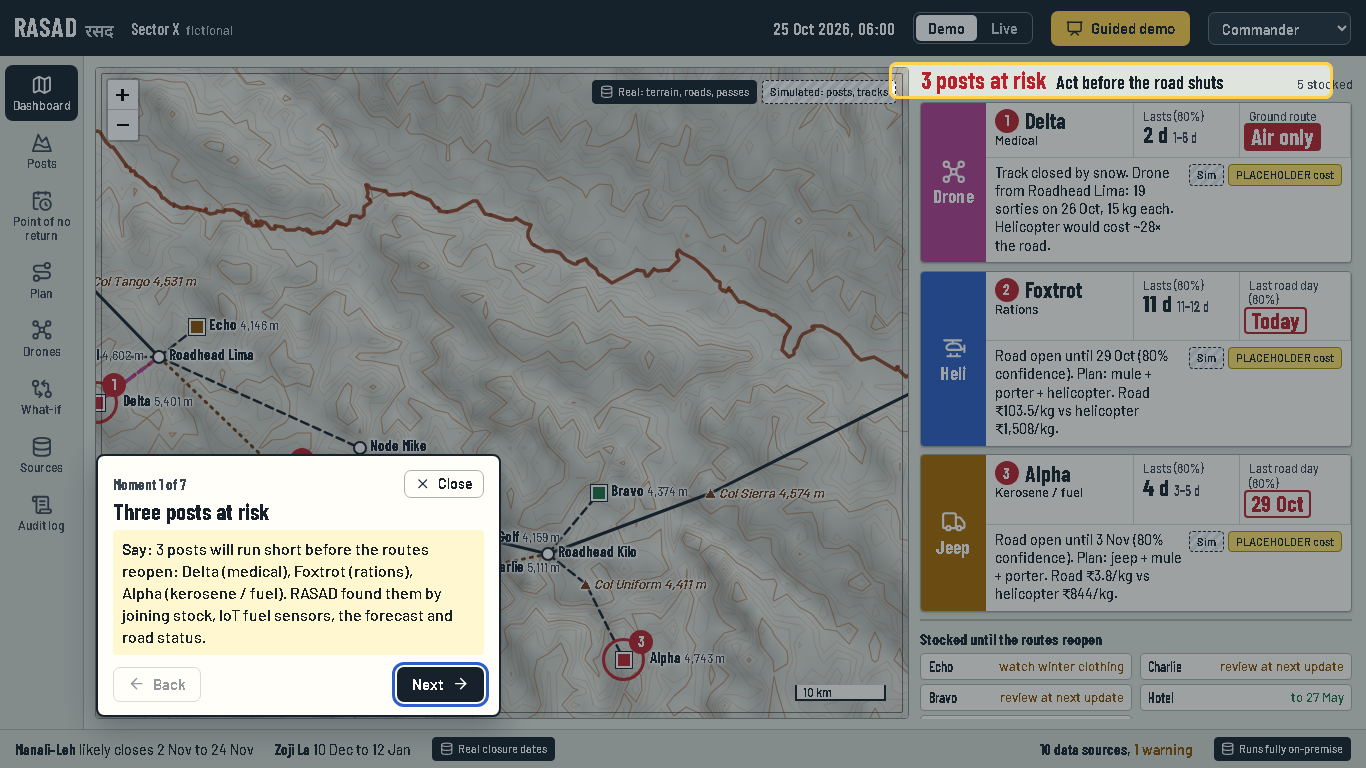
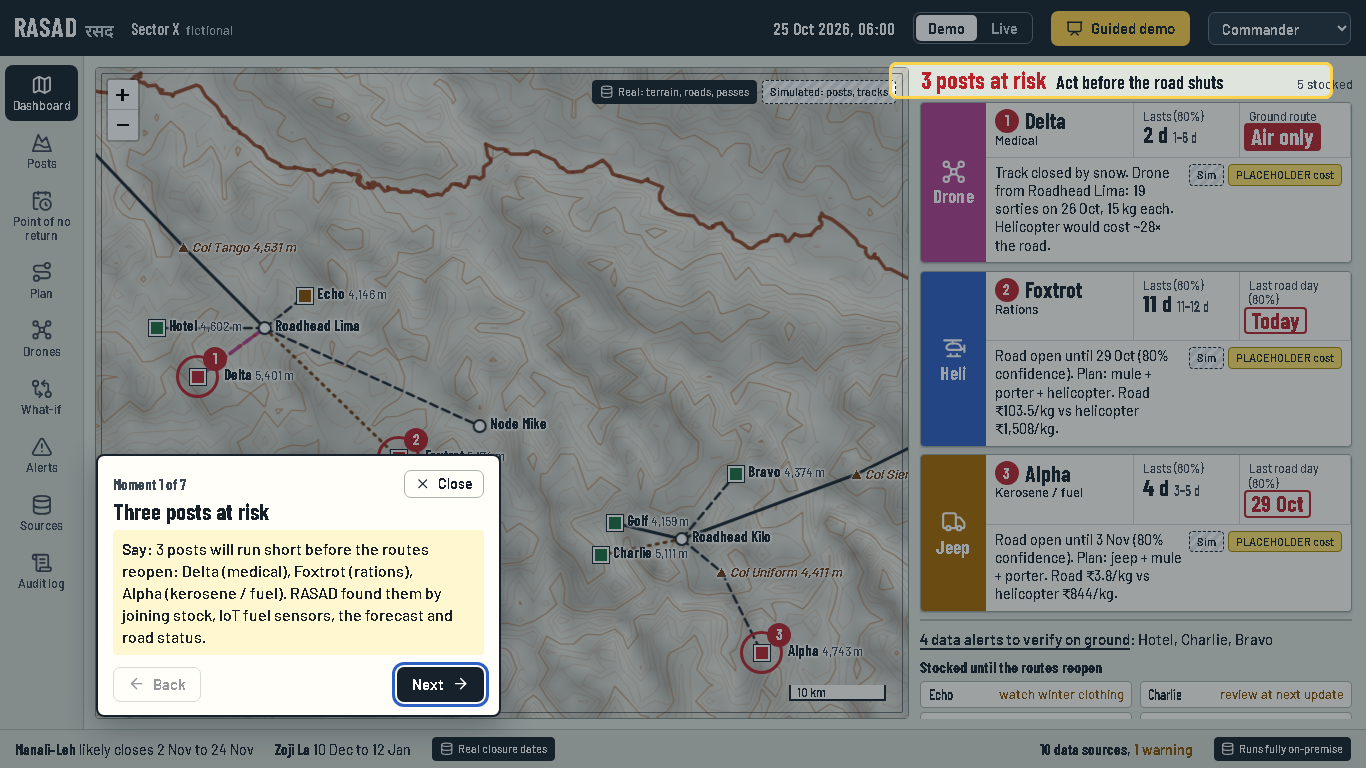
Fix cold-start pile-up and keep every post on the map
- backend/cache.py: memo() computes each heavy result once; callers asking
  meanwhile wait instead of starting a copy (6 reloads on a fresh start:
  >120 s before, ~13 s now). Warm-up computes the closure result first.
  Selfcheck covers it.
- SectorMap: fit all posts (padding for labels and controls), refit on
  resize, no animation, never pan past the terrain edge. Delta was hidden
  at 1280x720. Screenshots 01, 10, 11 recaptured.

diff --git a/frontend/src/SectorMap.tsx b/frontend/src/SectorMap.tsx
@@ -62,23 +62,26 @@ export default function SectorMap({ sector, terrain, status, risk, droneLegs = [
   const map = useRef<L.Map | null>(null)
   const layer = useRef<L.LayerGroup | null>(null)
   const g = useMemo(() => grid(terrain), [terrain])
+  const posts = useMemo(() => L.latLngBounds(sector.nodes.filter((n: Row) => n.kind === 'post').map((n: Row) => [n.lat, n.lon] as [number, number])), [sector])
 
   useEffect(() => {
     if (!el.current) return
     const m = L.map(el.current, { zoomControl: false, attributionControl: false, zoomSnap: 0.1, zoomDelta: 0.5, minZoom: 8, maxZoom: 13 })
     const bounds = L.latLngBounds([[g.lat0, g.lon0], [g.lat1, g.lon1]])
-    m.setView(bounds.getCenter(), m.getBoundsZoom(bounds, true) + 0.15) // terrain fills the frame at any size
-    m.setMaxBounds(bounds.pad(0.02))
+    // every post stays in view at any screen size (projector-safe), with room for labels, zoom buttons and chips
+    const fit = () => m.fitBounds(posts, { paddingTopLeft: [56, 64], paddingBottomRight: [140, 56], animate: false })
+    fit()
+    m.setMaxBounds(bounds) // stay on the terrain: past its edge only the contours' boundary lines would show
     relief(g).addTo(m)
     contourLayer(g).addTo(m)
     L.control.scale({ imperial: false, position: 'bottomright', maxWidth: 160 }).addTo(m)
     L.control.zoom({ position: 'topleft' }).addTo(m)
     layer.current = L.layerGroup().addTo(m)
     map.current = m
-    const ro = new ResizeObserver(() => m.invalidateSize())
+    const ro = new ResizeObserver(() => { m.invalidateSize(); fit() })
     ro.observe(el.current)
     return () => { ro.disconnect(); m.remove(); map.current = null }
-  }, [g])
+  }, [g, posts])
 
   useEffect(() => {
     const lg = layer.current

diff --git a/backend/closure.py b/backend/closure.py
@@ -8,14 +8,13 @@ this winter is like 1995, 1996, ... 2025, when does each route close?". That giv
 distribution. The last safe dispatch is the date on which the route is still open with 80% probability,
 minus transit and loading time.
 """
-import functools
 import json
 import math
 
 import numpy as np
 import pandas as pd
 
-from backend import costs, db, forecast, world
+from backend import cache, costs, db, forecast, world
 
 CLOSURES = json.loads((db.ROOT / "data" / "closures.json").read_text(encoding="utf-8"))
 P, CP = db.PARAMS, db.PARAMS["closure"]
@@ -69,7 +68,7 @@ def _closing_day(x: np.ndarray, c: float, d: float, t: float, start: int = 0) ->
     return int(_first(((cum >= c) & (storm >= d)) | (t7 <= t), start))
 
 
-@functools.lru_cache(maxsize=4)
+@cache.memo(maxsize=4)
 def fit(pass_id: str) -> dict:
     """Best (C, D, T) on the real closure dates, plus a leave-one-winter-out error so we don't fool ourselves."""
     info = CLOSURES[pass_id]
@@ -186,7 +185,7 @@ def _air(post: dict, nodes: dict) -> dict:
     return {"pad": pad["name"], "payload_kg": round(payload), "sortie_hours": round(hours, 2), "inr_per_kg": per_kg}
 
 
-@functools.lru_cache(maxsize=8)
+@cache.memo(maxsize=8)
 def run(mode: str = "demo", shift: int = 0, strength: tuple = ()) -> dict:
     """shift: what-if closure shift in days (e.g. -10). strength: what-if ((post, factor), ...)."""
     now = world.clock(mode).normalize()

diff --git a/backend/forecast.py b/backend/forecast.py
@@ -6,13 +6,12 @@ troop strength gives the post's demand, so a troop change flows straight into th
 Honesty check: on the last 60 days the model never saw, against the naive "28-day average". For each class
 the better of the two is used, and its band is calibrated so it really holds ~80% of real days.
 """
-import functools
 
 import lightgbm as lgb
 import numpy as np
 import pandas as pd
 
-from backend import db, world
+from backend import cache, db, world
 
 QUANTILES = (0.1, 0.5, 0.9)
 WINDOW, NAIVE_DAYS = 60, 28  # hold-out and calibration windows; naive look-back (days)
@@ -88,7 +87,7 @@ def _calibrate(p: np.ndarray, y: np.ndarray) -> float:
     return 6.0
 
 
-@functools.lru_cache(maxsize=4)
+@cache.memo(maxsize=4)
 def evaluate(mode: str = "demo") -> tuple[pd.DataFrame, dict]:
     """Two windows, no leak:
     - SELECT window (the 60 days before the final 60): pick the method per class and set its band factor.
@@ -174,7 +173,7 @@ def cover(mode: str, fc: pd.DataFrame) -> pd.DataFrame:
     return out
 
 
-@functools.lru_cache(maxsize=4)
+@cache.memo(maxsize=4)
 def run(mode: str = "demo") -> dict:
     """Everything the screens need; cached until the data changes (then call clear())."""
     fc = forecast(mode)

diff --git a/backend/selfcheck.py b/backend/selfcheck.py
@@ -2,8 +2,10 @@
 import pandas as pd
 
 import json
+import time
+from concurrent.futures import ThreadPoolExecutor
 
-from backend import adapters, anomaly, closure, costs, db, drones, forecast, planner, scenarios, world
+from backend import adapters, anomaly, cache, closure, costs, db, drones, forecast, planner, scenarios, world
 
 
 def check_adapters():
@@ -136,6 +138,21 @@ def check_alerts():
         assert a["plain"].startswith("Possible ") and "verify on ground" in a["plain"], a["plain"]
 
 
+def check_cache():
+    """Callers asking for the same result at the same time share one calculation (no pile-up on reloads)."""
+    calls = []
+
+    @cache.memo(maxsize=2)
+    def slow(x):
+        calls.append(x)
+        time.sleep(0.2)
+        return x * 2
+
+    with ThreadPoolExecutor(4) as ex:
+        assert list(ex.map(slow, [1, 1, 1, 1])) == [2, 2, 2, 2]
+    assert calls == [1], calls
+
+
 if __name__ == "__main__":
     check_adapters()
     check_forecast()
@@ -145,4 +162,5 @@ if __name__ == "__main__":
     check_plan()
     check_step6()
     check_alerts()
+    check_cache()
     print("selfcheck OK")

diff --git a/backend/anomaly.py b/backend/anomaly.py
@@ -7,13 +7,12 @@ For every post and supply, the weather-aware model says how much use per person 
 - several days far above                  -> a sharp surge (could be genuine need; confirm with the post).
 Thresholds scale with each series' own day-to-day noise, so a noisy item (medicine) needs a bigger jump.
 """
-import functools
 
 import lightgbm as lgb
 import numpy as np
 import pandas as pd
 
-from backend import adapters, db, forecast, world
+from backend import adapters, cache, db, forecast, world
 
 SPIKE_SIGMA, SPIKE_MIN_RATIO = 5, 3.0  # one-day jump: 5 noise widths and at least 3x
 # several days: the 7-day MEDIAN must sit 2 noise widths high (so at least 4 of 7 days are high; one spike cannot do it)
@@ -38,7 +37,7 @@ def _episodes(mask: np.ndarray) -> list[tuple[int, int]]:
     return out
 
 
-@functools.lru_cache(maxsize=4)
+@cache.memo(maxsize=4)
 def run(mode: str = "demo") -> list[dict]:
     now = world.clock(mode).normalize()
     hist = forecast._history(mode, forecast._frame(mode, now - forecast.DAY))

diff --git a/backend/planner.py b/backend/planner.py
@@ -9,7 +9,6 @@ urgent loads first. Hard rules:
 - fleet sizes per roadhead (mules, porters, jeeps, trucks, drones).
 Every line gets a plain reason, its cost and the assumptions behind it (with PLACEHOLDER tags).
 """
-import functools
 import json
 import math
 
@@ -17,7 +16,7 @@ import numpy as np
 import pandas as pd
 from ortools.sat.python import cp_model
 
-from backend import closure, costs, db, forecast, world
+from backend import cache, closure, costs, db, forecast, world
 
 P = db.PARAMS
 M, F, PL = P["modes"], P["fleet"], P["planner"]
@@ -301,7 +300,7 @@ def _line(mode, ld, kind, src, kg, trips, cost_inr, ds, o, nodes, sched=()) -> d
             "priority": "urgent" if ld["status"] in ("passed", "urgent") else "normal"}
 
 
-@functools.lru_cache(maxsize=4)
+@cache.memo(maxsize=4)
 def run(mode: str = "demo") -> dict:
     """The solved plan for a mode (cached; decisions are attached fresh by with_decisions)."""
     return plan(mode)

diff --git a/backend/cache.py b/backend/cache.py
@@ -1,0 +1,21 @@
+"""Results cache for the heavy calculations (closure, forecast, plan, drones, what-ifs, alerts)."""
+import functools
+import threading
+
+
+def memo(maxsize: int):
+    """Like functools.lru_cache, but each result is computed only once. A caller that asks for a result
+    while another caller is still computing it waits for that one instead of starting a second copy.
+    Without this, a few page reloads on a fresh start piled up many slow copies of the same calculation."""
+    def wrap(fn):
+        cached = functools.lru_cache(maxsize=maxsize)(fn)
+        locks: dict = {}
+
+        @functools.wraps(fn)
+        def call(*args, **kw):
+            with locks.setdefault((args, tuple(sorted(kw.items()))), threading.Lock()):
+                return cached(*args, **kw)
+
+        call.cache_clear = cached.cache_clear
+        return call
+    return wrap

diff --git a/backend/drones.py b/backend/drones.py
@@ -4,9 +4,8 @@ Candidate bases are staging points troops already hold and supply by road (roadh
 assumed stocked by road before its own route closes. For each candidate, the planner is re-run with the extra
 drones, and the base is ranked by the money, helicopter sorties and porter/mule trips it saves this week.
 """
-import functools
 
-from backend import costs, db, planner
+from backend import cache, costs, db, planner
 
 F = db.PARAMS["fleet"]
 
@@ -24,7 +23,7 @@ def kpis(plan: dict) -> dict:
                              for p in sorted({l["post_name"] for l in lines})}}
 
 
-@functools.lru_cache(maxsize=8)
+@cache.memo(maxsize=8)
 def advise(mode: str = "demo", n: int = 20, band: str = "12000_20000ft") -> dict:
     existing = F["drones_at"]["v"]
     before = kpis(planner.run(mode))

diff --git a/backend/scenarios.py b/backend/scenarios.py
@@ -1,8 +1,7 @@
 """Step 6 (USP E): one-click what-ifs. Each changes only the inputs, re-runs the Point of No Return and the
 plan, and reports before vs after."""
-import functools
 
-from backend import closure, db, drones, planner
+from backend import cache, closure, db, drones, planner
 
 TROOPS = (("PA", 1.2), ("PB", 1.2), ("PC", 1.2))
 SCENARIOS = {
@@ -20,7 +19,7 @@ def _kpis(pnr: dict, plan: dict) -> dict:
     return {"posts_at_risk": len(risk), "at_risk": risk, **k}
 
 
-@functools.lru_cache(maxsize=16)
+@cache.memo(maxsize=16)
 def run(mode: str, sid: str) -> dict:
     base_pnr, base_plan = closure.run(mode), planner.run(mode)
     pnr = base_pnr

diff --git a/backend/app.py b/backend/app.py
@@ -15,6 +15,7 @@ from backend import adapters, anomaly, closure, costs, db, drones, forecast, pla
 def warm_up() -> None:
     """Pre-compute the demo results in the background so the screens open instantly."""
     try:
+        closure.run("demo")  # first: the dashboard's risk posts need it (requests arriving meanwhile wait for it)
         planner.run("demo")
         scenarios.all_runs("demo")
     except Exception as e:  # never block start-up; the endpoints will show the error

diff --git a/PROGRESS.md b/PROGRESS.md
@@ -119,8 +119,17 @@ Backup: private GitHub repo https://github.com/AtulSharmx/RASAD. **After every s
 
 ## Next
 - **CLAUDE.md added (6 Oct 2026):** standing rules for Claude (UI/UX, clean modular code, plan before editing, no guessing, project safety rules).
-- **Fix 1: cold-start pile-up (critical).** On a fresh start, every page load asks the server for `/api/pnr`. The server then computes the same ~12 s closure result again for each request, in parallel with the warm-up, so a few reloads make it slower and slower. Tested: >120 s with a blank dashboard. Fix: let duplicate requests wait for the first calculation, and warm up `/api/pnr` first.
-- **Fix 2: map hides the top risk post at 1280×720.** At 1280×720 (a common projector size), Post Delta (#1 risk) is off the map, and at 1366×768 it is half cut off. The map crops the terrain to fill the frame. Fix: frame the map so that every post stays visible.
+- **Fixed (6 Oct 2026): cold-start pile-up.**
+  - The problem: on a fresh start, each page load and reload recomputed the same ~12 s closure result in parallel, so reloads made it slower and slower (>120 s with a blank dashboard).
+  - The fix: `backend/cache.py` (`memo`) replaces `lru_cache` on the heavy calculations. A caller that asks while the same result is being computed now waits for it instead of starting a copy. The warm-up computes the closure result first, and the selfcheck has `check_cache`.
+  - Result: 6 dashboard loads sent at once to a fresh server all answer in ~13 s.
+- **Fixed (6 Oct 2026): map framing.**
+  - The problem: at 1280×720 the map hid Post Delta (#1 risk), and at 1366×768 Delta and Hotel were half cut off.
+  - The fix: the map now fits all posts, with room for labels and controls, and refits when the screen size changes. It never pans past the terrain edge.
+  - Checked at 1024×768, 1280×720, 1366×768 and 1920×1080. Screenshots 01, 10 and 11 were recaptured.
+- Small leftovers (optional):
+  - At 1366×768 the Hotel label touches the track to Roadhead Lima.
+  - In guided-demo moment 1 at 1366×768, the popover covers Post Foxtrot on the map.
 - Optional: rehearse with `docs/DEMO_SCRIPT.md`; add screenshots to the PPT from `screenshots/`.
 
 ## How to run
